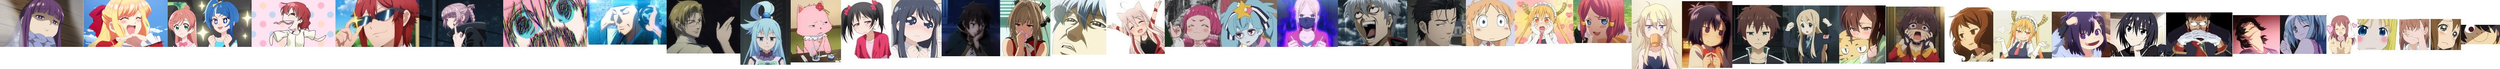
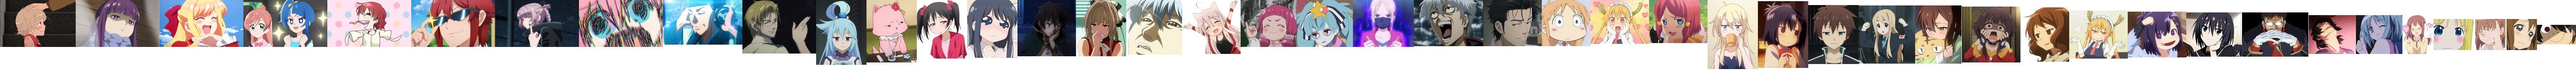
Staticifyies #headpat

diff --git a/src/_commentfaces-static.scss b/src/_commentfaces-static.scss
@@ -323,7 +323,7 @@ $static-comment-faces: (
 				"harukathink": ("height": 160, "width": 112, "position": 8139),
 				"kannathumbs": ("height": 162, "width": 150, "position": 8289),
 				"konosubawot4": ("height": 166, "width": 129, "position": 8418))),
-		33: ("sprite-sheet": "cf-static-046", "total-width": 6409, "items": (
+		33: ("sprite-sheet": "cf-static-046", "total-width": 6603, "items": (
 				"araragi-1": ("height": 50, "width": 100, "position": 100),
 				"yui-crying": ("height": 80, "width": 78, "position": 178),
 				"facepalm": ("height": 80, "width": 80, "position": 258),
@@ -359,7 +359,7 @@ $static-comment-faces: (
 				"sideeyes": ("height": 161, "width": 129, "position": 4382),
 				"konosubawot": ("height": 167, "width": 129, "position": 4511))),
 
-		34: ("sprite-sheet": "cf-static-046", "total-width": 6409, "items": (
+		34: ("sprite-sheet": "cf-static-046", "total-width": 6603, "items": (
 				"michaelwink": 			("height": 137, "width": 189, "position": 4700),
 				"listen": 				("height": 115, "width": 204, "position": 4904),
 				"bocchitheshock":     	("height": 121, "width": 215, "position": 5119),
@@ -368,7 +368,8 @@ $static-comment-faces: (
 				"trololol":     		("height": 121, "width": 215, "position": 5764),
 				"skyhype":	     		("height": 121, "width": 215, "position": 5979),
 				"ohoho":	     		("height": 121, "width": 215, "position": 6194),
-				"unamusedfern":	     	("height": 121, "width": 215, "position": 6409))),
+				"unamusedfern":	     	("height": 121, "width": 215, "position": 6409),
+				"headpat":		     	("height": 121, "width": 194, "position": 6603))),
 
 		35: ("sprite-sheet": "cf-static-039", "total-width": 3546, "items": (
 				"seasonalapproval": 	("height": 121, "width": 215, "position": 215),

diff --git a/src/_commentfaces-animated.scss b/src/_commentfaces-animated.scss
@@ -126,6 +126,5 @@ $animated-comment-faces: (
 				"therethere": ("height": 116, "width": 176, "from-position": 1681, "to-position": 2725, "frames": 9, "duration": 0.72, "loop": true),
 				"breakingnews": ("height": 133, "width": 176, "from-position": 18, "to-position": 949, "frames": 7, "duration": 0.5, "loop": true))),
 		"cf-animated-037": ("items": ("shakeit": ("height": 104, "width": 184, "from-position": 11440, "to-position": 6240, "frames": 50, "duration": 2.08, "loop": true),
-				"floweryhug": ("height": 104, "width": 184, "from-position": 104, "to-position": 6240, "frames": 60, "duration": 2.5, "loop": false))),
-		"cf-animated-038": ("items": ("headpat": ("height": 98, "width": 235, "from-position": 9604, "to-position": 0, "frames": 98, "duration": 7.76, "loop": true)))
+				"floweryhug": ("height": 104, "width": 184, "from-position": 104, "to-position": 6240, "frames": 60, "duration": 2.5, "loop": false)))
 );
